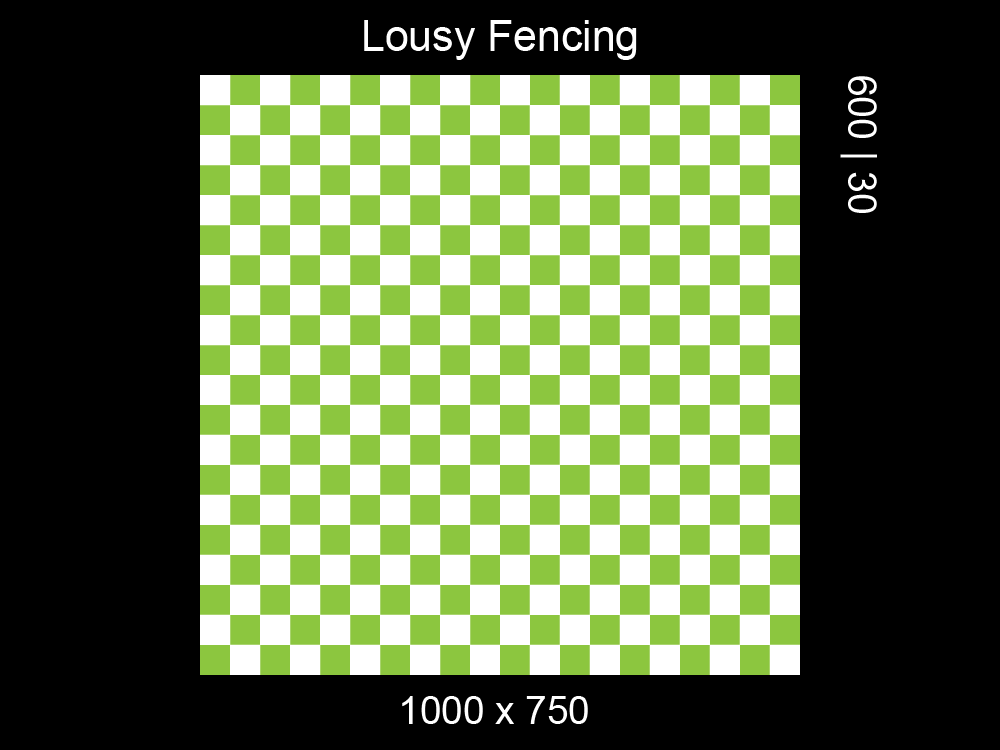
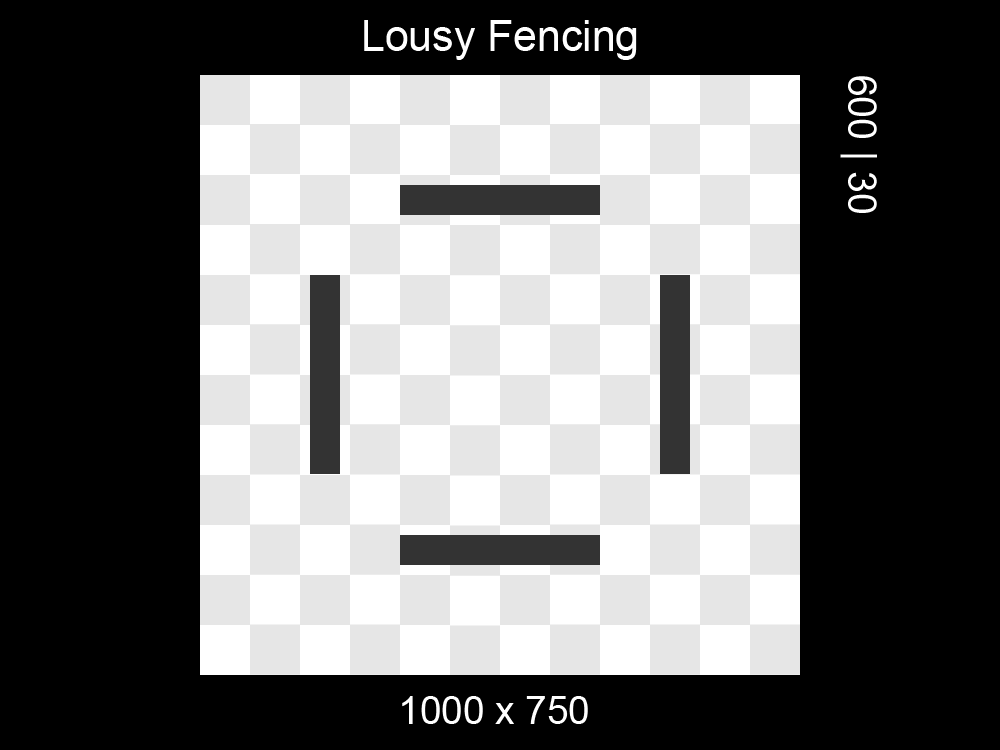
Update every aspect from background and try implementing map

diff --git a/src/models/Map1.java b/src/models/Map1.java
@@ -1,6 +1,47 @@
 package models;
 
+import information.FrameInfo;
+
 public class Map1 extends Map{
-    public static final int DEFAULTWIDTH = 800;
-    public static final int DEFAULTHEIGHT = 800;
+
+    public Map1(String name){
+        super(name);
+        initializeObstacle();
+    }
+
+    private void initializeObstacle(){
+        if (FrameInfo.getUserScreenSetting() > 1) {
+            // Top
+            addObstacles(new Obstacle(getTilesRelativeCoorX(5), getTilesRelativeCoorY(3)));
+            addObstacles(new Obstacle(getTilesRelativeCoorX(6), getTilesRelativeCoorY(3)));
+            addObstacles(new Obstacle(getTilesRelativeCoorX(7), getTilesRelativeCoorY(3)));
+            addObstacles(new Obstacle(getTilesRelativeCoorX(8), getTilesRelativeCoorY(3)));
+            addObstacles(new Obstacle(getTilesRelativeCoorX(9), getTilesRelativeCoorY(3)));
+            addObstacles(new Obstacle(getTilesRelativeCoorX(10), getTilesRelativeCoorY(3)));
+
+            // Left
+            addObstacles(new Obstacle(getTilesRelativeCoorX(3), getTilesRelativeCoorY(5)));
+            addObstacles(new Obstacle(getTilesRelativeCoorX(3), getTilesRelativeCoorY(6)));
+            addObstacles(new Obstacle(getTilesRelativeCoorX(3), getTilesRelativeCoorY(7)));
+            addObstacles(new Obstacle(getTilesRelativeCoorX(3), getTilesRelativeCoorY(8)));
+            addObstacles(new Obstacle(getTilesRelativeCoorX(3), getTilesRelativeCoorY(9)));
+            addObstacles(new Obstacle(getTilesRelativeCoorX(3), getTilesRelativeCoorY(10)));
+
+            // Right
+            addObstacles(new Obstacle(getTilesRelativeCoorX(12), getTilesRelativeCoorY(5)));
+            addObstacles(new Obstacle(getTilesRelativeCoorX(12), getTilesRelativeCoorY(6)));
+            addObstacles(new Obstacle(getTilesRelativeCoorX(12), getTilesRelativeCoorY(7)));
+            addObstacles(new Obstacle(getTilesRelativeCoorX(12), getTilesRelativeCoorY(8)));
+            addObstacles(new Obstacle(getTilesRelativeCoorX(12), getTilesRelativeCoorY(9)));
+            addObstacles(new Obstacle(getTilesRelativeCoorX(12), getTilesRelativeCoorY(10)));
+
+            // Bottom
+            addObstacles(new Obstacle(getTilesRelativeCoorX(5), getTilesRelativeCoorY(12)));
+            addObstacles(new Obstacle(getTilesRelativeCoorX(6), getTilesRelativeCoorY(12)));
+            addObstacles(new Obstacle(getTilesRelativeCoorX(7), getTilesRelativeCoorY(12)));
+            addObstacles(new Obstacle(getTilesRelativeCoorX(8), getTilesRelativeCoorY(12)));
+            addObstacles(new Obstacle(getTilesRelativeCoorX(9), getTilesRelativeCoorY(12)));
+            addObstacles(new Obstacle(getTilesRelativeCoorX(10), getTilesRelativeCoorY(12)));
+        }
+    }
 }

diff --git a/src/models/Map.java b/src/models/Map.java
@@ -1,15 +1,22 @@
 package models;
 
+import information.FrameInfo;
+
 import java.util.ArrayList;
 
 public abstract class Map {
     //Atrributes
     private String name;
-    private int arenaWidth;
-    private int arena;
     private ArrayList<Obstacle> obstacles;
     private ArrayList<Soup> soups;
     protected ArrayList<Player> players;
+
+    // Constructor
+    public Map(String mapName){
+        obstacles = new ArrayList<>();
+        soups = new ArrayList<>();
+        players = new ArrayList<>();
+    }
 
     //Getter Setter
     public String getName() {
@@ -25,21 +32,7 @@ public abstract class Map {
         }
     }
 
-    public int getArenaWidth() {
-        return arenaWidth;
-    }
 
-    public void setArenaWidth(int arenaWidth) {
-        this.arenaWidth = arenaWidth;
-    }
-
-    public int getArena() {
-        return arena;
-    }
-
-    public void setArena(int arena) {
-        this.arena = arena;
-    }
 
     public ArrayList<Obstacle> getObstacles() {
         return obstacles;
@@ -61,8 +54,8 @@ public abstract class Map {
         return players;
     }
 
-    public void setPlayers(ArrayList<Player> players) {
-        this.players = players;
+    public void addPlayers(Player player) {
+        players.add(player);
     }
 
     public void addObstacles(Obstacle obstacle){
@@ -85,5 +78,13 @@ public abstract class Map {
     public Player nextPlayer(){
         //TODO: Belum jadi
         return new Spider();
+    }
+
+    public int getTilesRelativeCoorX(int tileIndex){
+        return tileIndex * FrameInfo.tileSize + FrameInfo.arenaXstart;
+    }
+
+    public int getTilesRelativeCoorY(int tileIndex){
+        return tileIndex * FrameInfo.tileSize + FrameInfo.arenaXstart;
     }
 }

diff --git a/src/GUI/GamePlayGUI.java b/src/GUI/GamePlayGUI.java
@@ -1,5 +1,6 @@
 package GUI;
 import information.FrameInfo;
+import models.Map1;
 import models.Spider;
 import javax.swing.*;
 import java.awt.*;
@@ -47,10 +48,23 @@ public class GamePlayGUI extends JFrame {
         // Set the main content panel as the content pane of the frame
         setContentPane(contentPane);
 
+        //TODO: ini Map dan Character masih temporary
+
         // Character
         Spider player1 = new Spider();
         player1.setInitialPosition(FrameInfo.arenaXstart,FrameInfo.arenaYstart);
         backgroundLabel.add(player1.character);
+
+        Spider player2 = new Spider();
+        player2.setInitialPosition(FrameInfo.arenaXend,FrameInfo.arenaYend);
+        backgroundLabel.add(player2.character);
+
+        // Create Map
+        Map1 demoMap = new Map1("Demo Map");
+        demoMap.addPlayers(player1);
+        demoMap.addPlayers(player2);
+
+
 
         // Add Event Listener
         addKeyListener(new KeyListener() {

diff --git a/src/information/FrameInfo.java b/src/information/FrameInfo.java
@@ -45,11 +45,14 @@ public class FrameInfo {
     }
 
     private static int getTileSize(){
-        return userScreenSetting > 1? 40 : 30;
+        return userScreenSetting > 1? 50 : 50;
     }
 
     private static int getArenaSize(){
         return userScreenSetting > 1? 800 : 600;
     }
 
+    public static int getUserScreenSetting() {
+        return userScreenSetting;
+    }
 }

diff --git a/src/models/Obstacle.java b/src/models/Obstacle.java
@@ -5,4 +5,10 @@ public class Obstacle extends Coordinate{
     public boolean isObstacle(int x, int y) {
         return super.getCoordinateX() == x && super.getCoordinateY() == y;
     }
+
+    // Constructor
+    public Obstacle(int x, int y){
+        setCoordinateX(x);
+        setCoordinateY(y);
+    }
 }

diff --git a/src/Main.java b/src/Main.java
@@ -5,7 +5,7 @@ import javax.swing.*;
 public class Main {
     public static void main(String[] args) {
         SwingUtilities.invokeLater(() -> {
-            new GamePlayGUI(2, true);
+            new GamePlayGUI(1, true);
         });
     }
 }

diff --git a/src/models/Map2.java b/src/models/Map2.java
@@ -1,6 +1,9 @@
 package models;
 
 public class Map2 extends Map{
-    public static final int DEFAULTWIDTH = 800;
-    public static final int DEFAULTHEIGHT = 800;
+
+    public Map2(String name){
+        super(name);
+    }
+
 }
